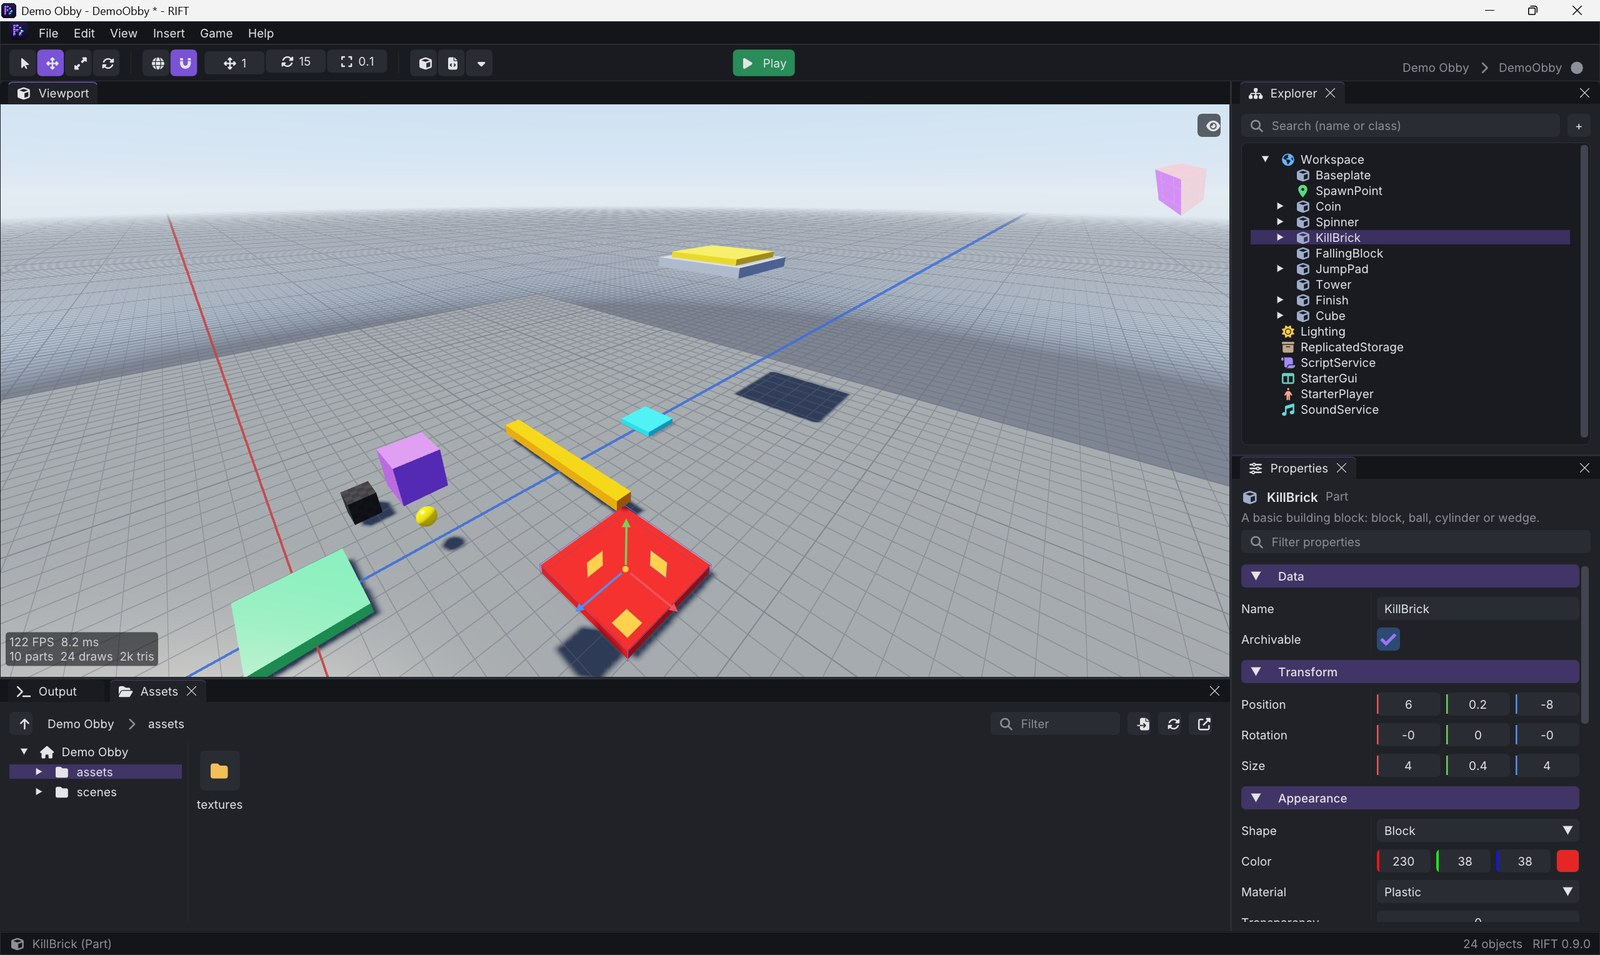
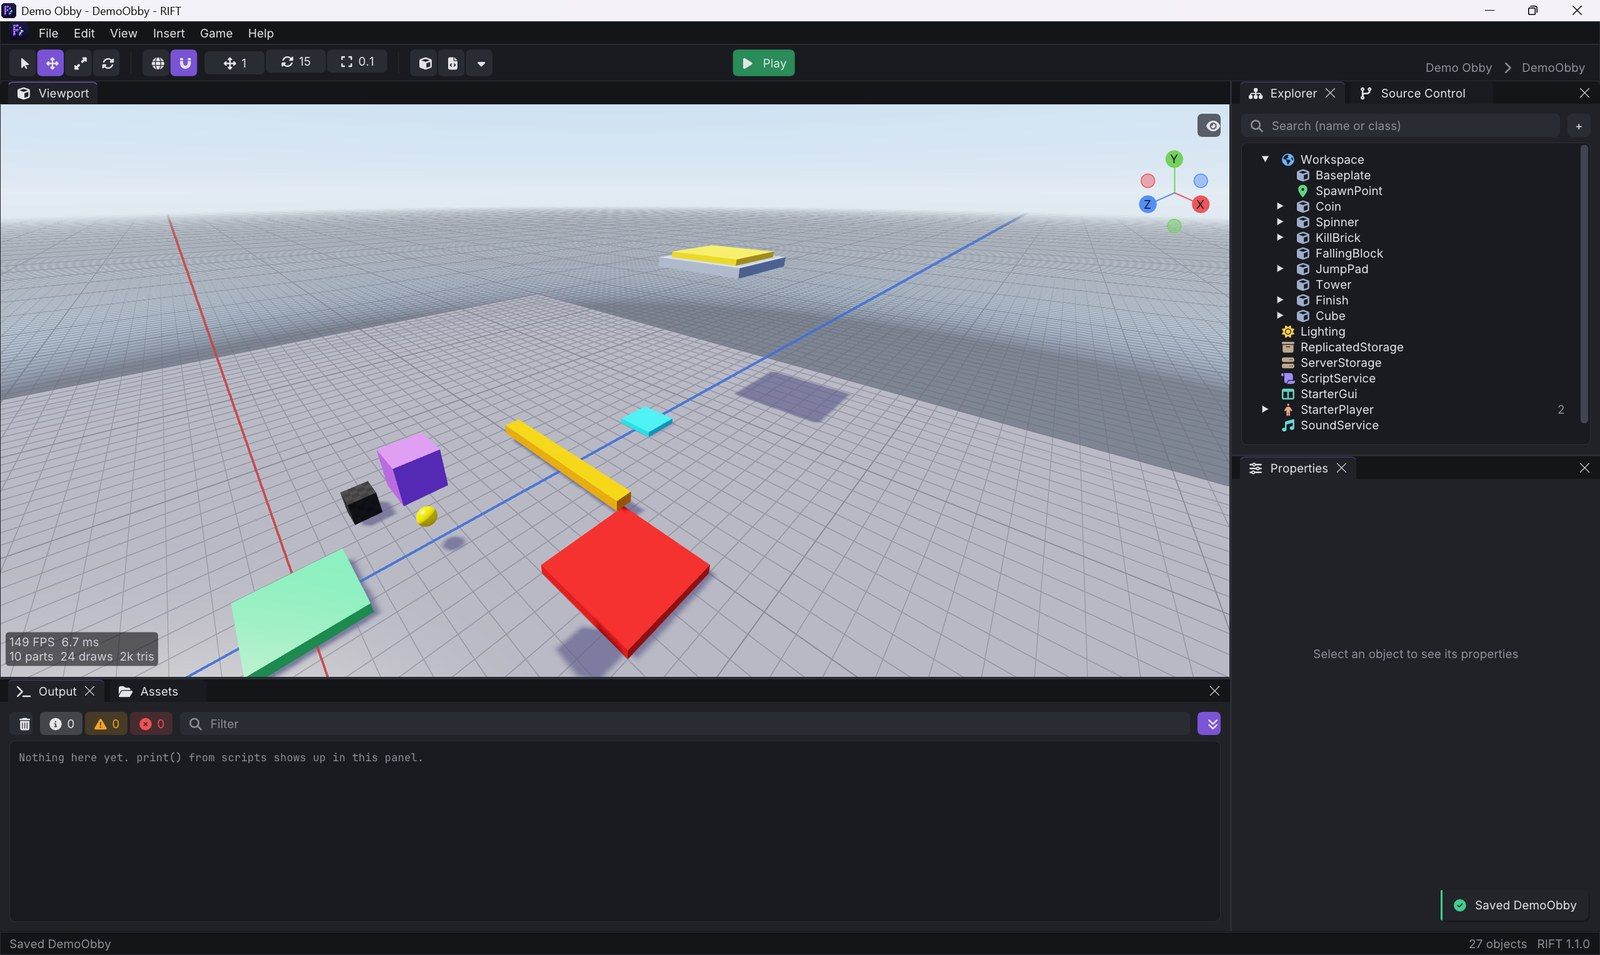
UI fixes from testing, new screenshots

diff --git a/app.js b/app.js
@@ -164,6 +164,7 @@
     { image: "assets/play.jpg", title: "RIFT — playing", caption: "Press F5 to play right in the editor. Switch between the client's and the server's view to see replication at work." },
     { image: "assets/scripting.png", title: "RIFT — scripting", caption: "A Lua editor with syntax checks as you type, errors that jump to the line, and a Roblox-style API." },
     { image: "assets/models.jpg", title: "RIFT — importing", caption: "Drop in OBJ, glTF and GLB models, textures and sounds from your computer." },
+    { image: "assets/source-control.jpg", title: "RIFT — source control", caption: "Commit, branch and push to GitHub from the Source Control panel. Every project can be a git repository." },
     { image: "assets/player.jpg", title: "My Game", caption: "Build Game turns the project into a standalone .exe with its own icon and a pause menu." },
   ];
   function setupTour() {

diff --git a/index.html b/index.html
@@ -179,7 +179,8 @@ coin.Touched:<span class="f">Connect</span>(<span class="k">function</span>(hit)
           <button role="tab" aria-selected="false" data-shot="1">Play</button>
           <button role="tab" aria-selected="false" data-shot="2">Script</button>
           <button role="tab" aria-selected="false" data-shot="3">Import</button>
-          <button role="tab" aria-selected="false" data-shot="4">Ship</button>
+          <button role="tab" aria-selected="false" data-shot="4">Version</button>
+          <button role="tab" aria-selected="false" data-shot="5">Ship</button>
         </div>
         <figure class="shot tour-shot">
           <div class="shot-bar"><span></span><span></span><span></span><em data-shot-title>RIFT</em></div>
